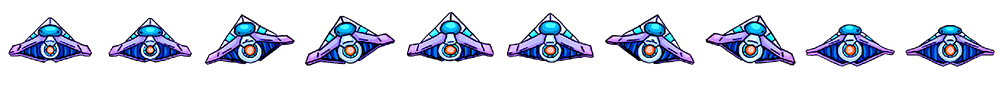
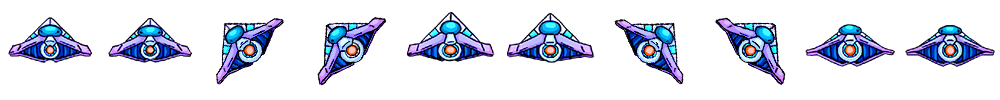
added bounce physics to enemies and fixed bosy collider on player

Changed region(s): [[0.186, 0.15, 0.403, 0.84], [0.589, 0.15, 0.806, 0.84]]

diff --git a/scenes/main/create.js b/scenes/main/create.js
@@ -4,35 +4,48 @@ const world = require("../../objects/world");
 
 
 module.exports = function create() {
+
+    console.log(this);
+    this.physics.world.bounds.height = 400;
+    this.physics.world.bounds.width = 800;
+    //this.physics.world.setBounds(0, 0, 400, 300);
     this.space = this.add.tileSprite(400,300, 800, 600, "space");
-    //this.add.image(400, 300, 'sky');
-    this.clouds = this.add.tileSprite(400, 300, "clouds");
-    this.stars = this.add.tileSprite(400,300, "stars");
+    
+  
+    this.stars = this.add.tileSprite(400,300, 800, 600, "stars");
+
+    this.clouds = this.add.tileSprite(400, 300, 800, 600, "clouds");
 
     const hpHolder = this.add.rectangle(16,300, 20,400, 0x252525);
+    hpHolder.setDepth(1);
     this.hp = this.add.rectangle(16,300, 20, 400, 0x80F68A);
+    this.hp.setDepth(1);
 
     const spHolder = this.add.rectangle(784, 300, 20, 400, 0x252525);
+    spHolder.setDepth(1);
     this.sp = this.add.rectangle(784, 300, 20, 400, 0xFFB545);
+    this.sp.setDepth(1);
 
     world.letters = this.physics.add.group({immovable: true, allowGravity: false});
 
     const lvlTxt = this.add.text(190, 8, "1", {font: "35px Arial"});
 
-    lvlTxt.setDepth(1);
+    lvlTxt.setDepth(3);
 
     const livesTxt = this.add.text(591, 8, "2", {font: "35px Arial"});
 
-    livesTxt.setDepth(1);
+    livesTxt.setDepth(3);
     
     world.timerTxt = this.add.text(336, 17, "00:00", {font: "50px Arial "});
-    world.timerTxt.setDepth(1);
+    world.timerTxt.setDepth(3);
     
     const player = this.add.player(400,400);
+    console.log(player.body);
+    
 
     world.player = this.add.existing(player);
 
-    world.enemies = this.add.group();
+    world.enemies = this.add.group({immovable: false, allowGravity: true});
 
     let eBullets = this.add.group({immovable: false, allowGravity: false});
 
@@ -43,6 +56,9 @@ module.exports = function create() {
     world.eBullets = eBullets;
 
     this.uiHud = this.add.image(400,300, "uiHud");
+    this.uiHud.setDepth(2);
+
+    this.physics.add.collider(world.enemies, world.enemies);
 
     function flashAnim(sprite) {
         const start = timer;
@@ -109,6 +125,12 @@ module.exports = function create() {
             bullet.particles.destroy(); 
         } 
     }
+    this.anims.create({
+        key: 'enemyIdle',
+        frames: this.anims.generateFrameNumbers('enemy', { start: 0, ende: 3}),
+        frameRate: 10,
+        repeat: -1
+    })
 
     this.anims.create({
         key: 'idle',

diff --git a/scenes/main/update.js b/scenes/main/update.js
@@ -60,7 +60,14 @@ function loadEnemies(scene) {
         const xPos = startX + (enemWidth * i) + (enemGap * 1);
         const thisLett = scramWord[i];
         const enemy = scene.add.enemy(xPos, startY, thisLett);
+        enemy.play("enemyIdle", true);
+        enemy.body.setVelocity(100, 200);
+        enemy.body.setBounce(1, 1);
+        enemy.body.setCollideWorldBounds(true);
+        
+        
         world.enemies.add(enemy);
+        
     }
 }
 
@@ -78,6 +85,8 @@ function loadLetters(scene) {
         letter.value = scene.add.text(letter.x, letter.y, world.word.goal[i], {font: "50px Arial", color: "black"});
         letter.value.setOrigin(0.5);
         letter.value.setVisible(false);
+        letter.setDepth(2);
+        letter.value.setDepth(2);
         letter.setVisible(false);
         world.letters.add(letter);
     }
@@ -130,7 +139,9 @@ function resetTimer() {
 module.exports = function update(time, delta) {
     this.space.tilePositionY -= 0.3;
     this.clouds.tilePositionY -= 0.7;
-    this.stars.tilePositionY += 0.01;
+    this.stars.tilePositionY -= 0.2;
+
+    
     //console.log(this.stars);
 
     const minutes = Math.floor(world.countdown / 60);
@@ -138,6 +149,8 @@ module.exports = function update(time, delta) {
     world.timerTxt.setText(minutes + " : " + seconds);
 
     const {player} = world;
+
+    
 
     //console.log(world.timer);
     world.timer += delta / 1000;

diff --git a/objects/enemy.js b/objects/enemy.js
@@ -5,12 +5,17 @@ class Enemy extends Phaser.GameObjects.Sprite {
         super(scene, x, y, 'enemy',letter);
         console.log(letter);  
 
-        scene.physics.add.existing(this,{allowGravity: false});
+        scene.physics.add.existing(this);
+
+        
+        
+        this.onWorldBounds = true;
 
         //this.body.width = this.body.width / 2;
         //this.body.width = this.width;
 
-        
+        this.body.setCircle(50);
+
         this.isShooting = false;
         this.char = letter;
 
@@ -19,6 +24,8 @@ class Enemy extends Phaser.GameObjects.Sprite {
         this.letter = this.scene.add.text(x, y, letter, {font: "35px Arial"});
         this.letter.setOrigin(0.5);
         this.letter.setDepth(1);
+
+        //this.letter.startFollow(this);
 
         
         this.particles = this.scene.add.particles('bulletPart');
@@ -35,6 +42,8 @@ class Enemy extends Phaser.GameObjects.Sprite {
 
     preUpdate(time, delta) {
         super.preUpdate(time, delta);
+        this.letter.x = this.x;
+        this.letter.y = this.y;
     }
 
     idle() {

diff --git a/objects/player.js b/objects/player.js
@@ -5,31 +5,12 @@ class Player extends Phaser.GameObjects.Sprite {
     constructor(scene, x, y) {
         super(scene, x, y, "ship");  
 
-        scene.physics.add.existing(this,{allowGravity: false});
+        scene.physics.add.existing(this);
+        this.body.allowGravity = false;
         
         this.isShooting = false;
 
-        //this.body.setCircle(45);
-        //player.body.setOrigin(0.5);
-
-        //this.debug.reset();
-
-        //this.setDisplayOrigin(0.5); 
-        //console.log(this.body);
-        //this.center = (this.x, this.y);
-        //this.body.scale = 0.5;
-        //this.body.setSize(100, 100, true);
-        //this.setScale(0.5);
-        //this.center = 0.5;
-        //this.body.width = 100;
-        //this.body.height = 100;
-
-        
-        //this.body.position = 0;
-        //player.scale.y = 1;
-        //this.center = (this.position.x + this.halfWidth, this.position.y + this.halfHeight);
-
-        console.log("player width: " + this.width);
+        this.body.setCircle(50);
 
         this.alive = true;
 

diff --git a/scenes/main/preload.js b/scenes/main/preload.js
@@ -17,6 +17,8 @@ module.exports = function preload ()
 
     this.load.spritesheet("ship", ship, {frameWidth: 100, frameHeight: 100});
 
+    this.load.spritesheet("enemy", enemy, {frameWidth: 100, frameHeight: 100});
+    
     this.load.image("uiHud", uiHud);
 
     this.load.image("space", space);
@@ -31,7 +33,6 @@ module.exports = function preload ()
 
     this.load.spritesheet('otherDude', od, {frameWidth: 32, frameHeight: 48});
 
-    this.load.image('enemy', enemy);
 
     this.load.image('shield', shield);
 }
